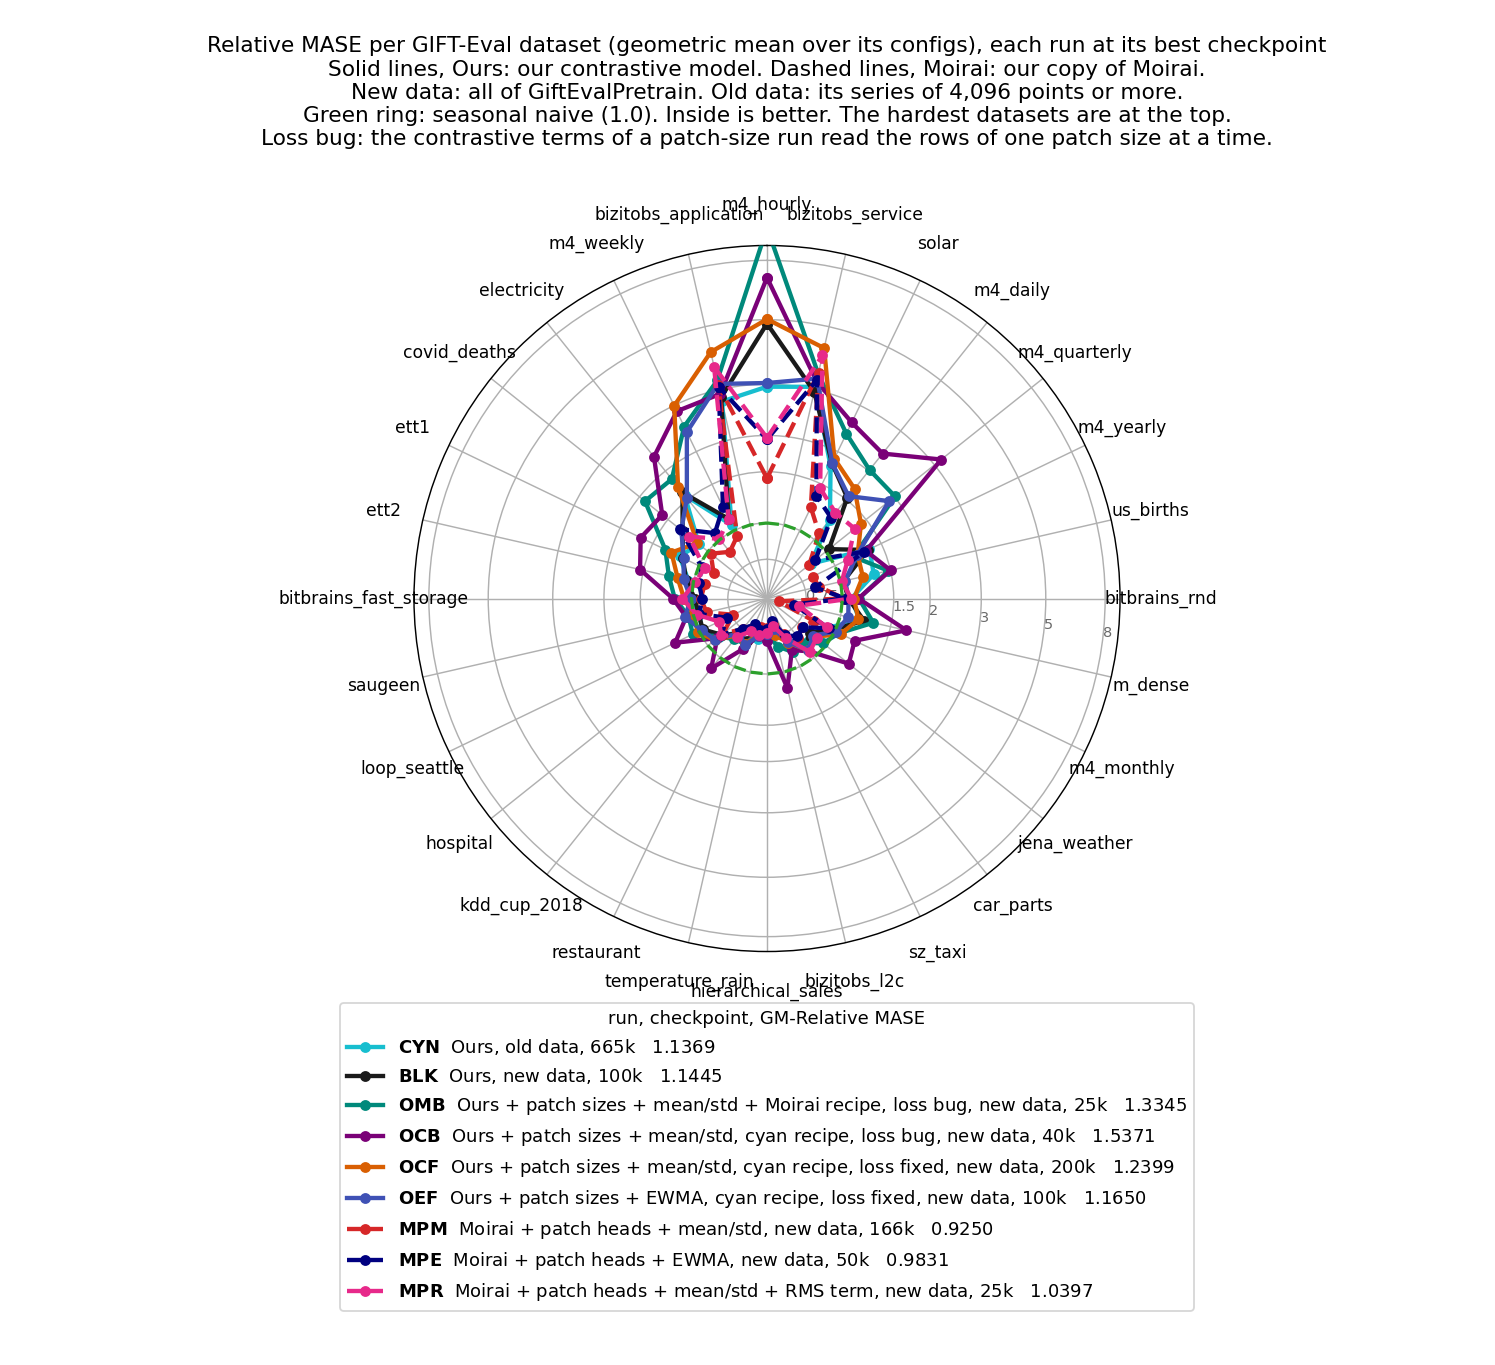
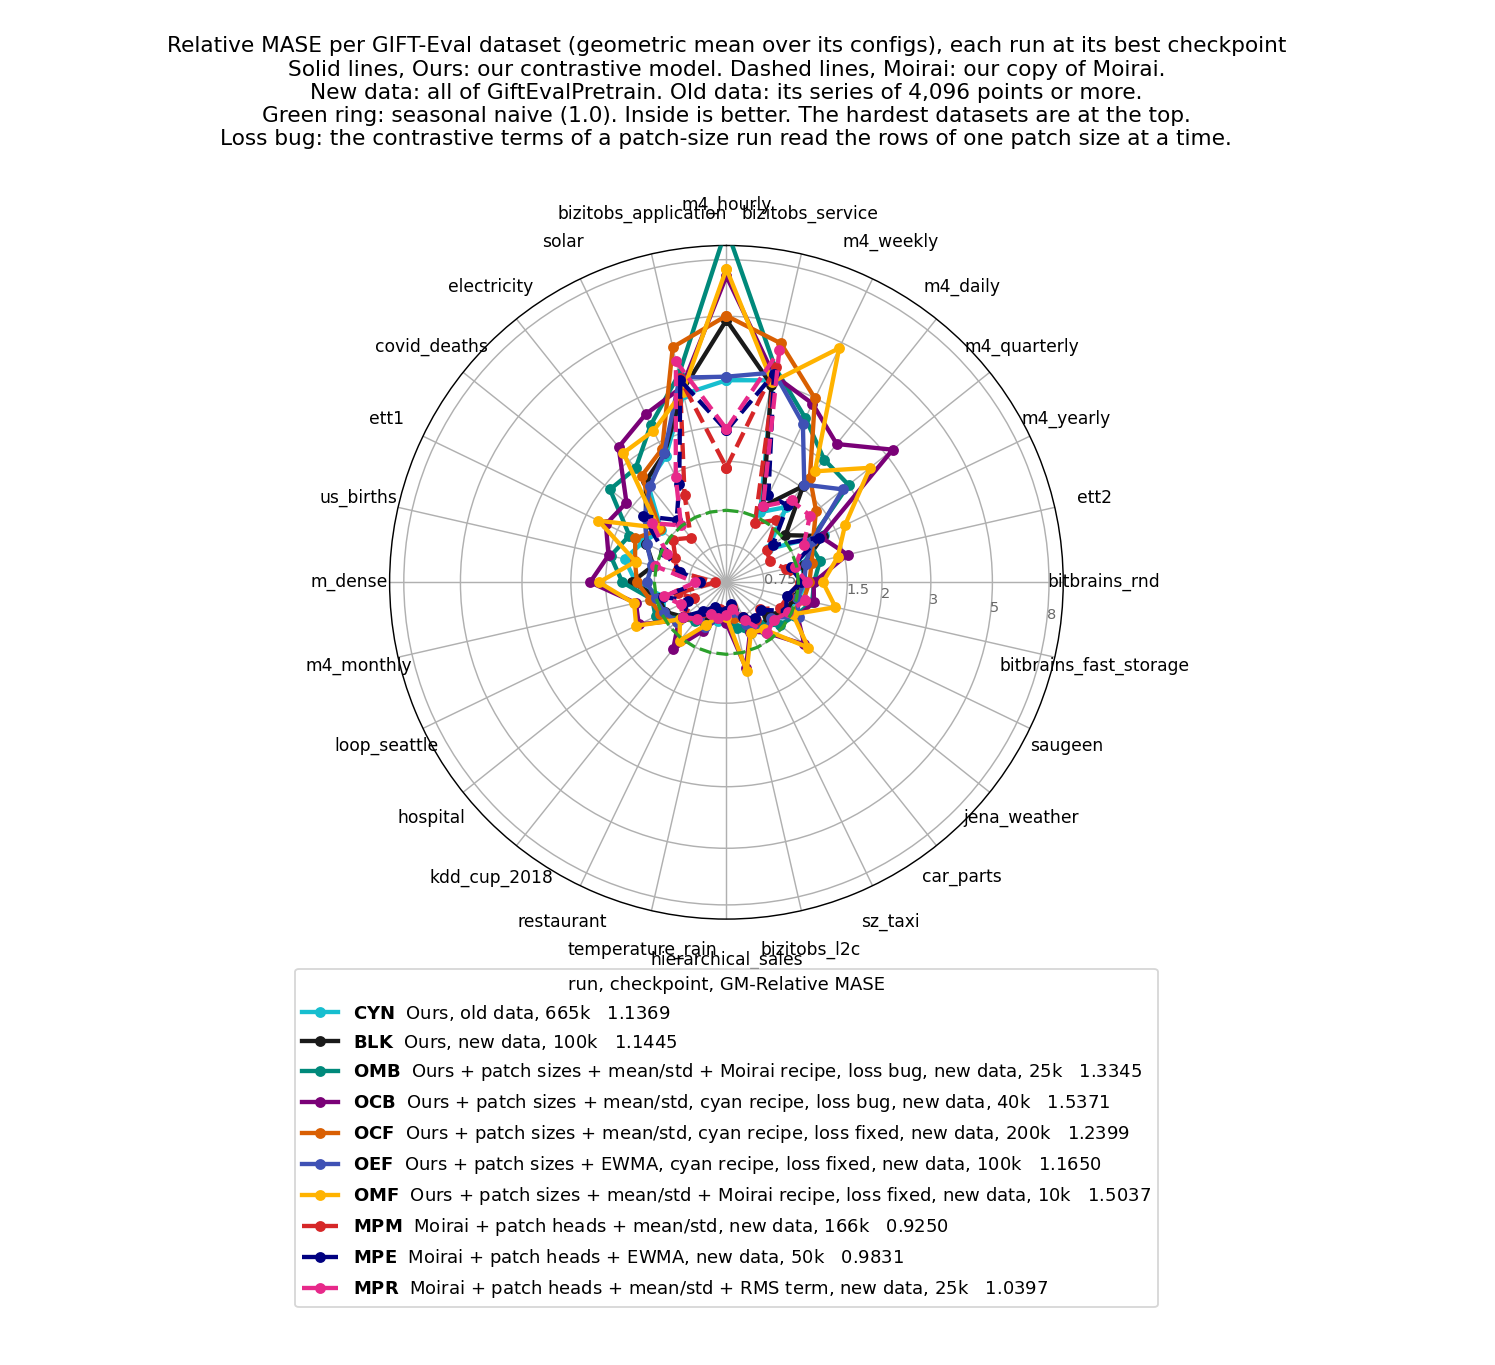
exp(#412): OMF (#412om2) scores 1.5037 at 10k
OMF enters every figure as an amber line.

Changed region(s): [[0.1231, 0.0308, 0.8615, 0.9538], [0.6769, 0.5231, 0.7692, 0.5846], [0.5846, 0.5538, 0.6154, 0.5846]]

diff --git a/reports/2026-09-06_moirai_small_size/scripts/plot_loss_terms_412.py b/reports/2026-09-06_moirai_small_size/scripts/plot_loss_terms_412.py
@@ -43,6 +43,8 @@ SOURCES = {
     "cf412oc": ([f"cf-412oc/leg_{k}k" for k in (40, 100, 200)], "cf412oc_k3_losses.csv", 1),
     "cf412oc2": ([f"cf-412oc2/leg_{k}k" for k in (40, 100, 200)], "cf412oc2_k3_losses.csv", 1),
     "cf412oe2": ([f"cf-412oe2/leg_{k}k" for k in (40, 100, 200)], "cf412oe2_k3_losses.csv", 1),
+    "cf412om2": ([f"cf-412om2/leg_{k}k" for k in (10, 25, 50, 75, 100, 125, 150, 166)],
+                 "cf412om2_k3_losses.csv", 4),
     CYAN: ([f"{CYAN}/arm6_v2_combab_alignT/leg_665k"],
            "cf393_arm6_v2_combab_alignT_cf373k3_cf412_" + CYAN + "_losses.csv", 1),
 }
@@ -51,6 +53,7 @@ LABEL = {"cf412om": "Ours + patch sizes + mean/std + Moirai recipe, loss bug (ba
          "cf412oc": "Ours + patch sizes + mean/std, cyan recipe, loss bug (batch 64)",
          "cf412oc2": "Ours + patch sizes + mean/std, cyan recipe, loss fixed (batch 64)",
          "cf412oe2": "Ours + patch sizes + EWMA, cyan recipe, loss fixed (batch 64)",
+         "cf412om2": "Ours + patch sizes + mean/std + Moirai recipe, loss fixed (batch 256)",
          CYAN: "cyan: ours, one patch size, EWMA (batch 64)"}
 LABEL = {run: tagged(run, text) for run, text in LABEL.items()}
 PANEL = {"gm": "GM-Relative MASE (lower is better)",
@@ -114,7 +117,7 @@ def load():
             xs, ys = curves[(r["run"], r["term"])]
             xs.append(float(r["data_seen"]))
             ys.append(float(r["median"]))
-    scale = {"cf412om": 4}
+    scale = {"cf412om": 4, "cf412om2": 4}
     if MEASURED.exists():
         with open(MEASURED) as f:
             for r in csv.DictReader(f, delimiter="\t"):

diff --git a/reports/2026-09-06_moirai_small_size/scripts/plot_gm_rates.py b/reports/2026-09-06_moirai_small_size/scripts/plot_gm_rates.py
@@ -34,6 +34,7 @@ RUNS = [
     ("cf412oc", "Ours + patch sizes + mean/std, cyan recipe, new data, loss bug", 4.4, "p"),
     ("cf412oc2", "Ours + patch sizes + mean/std, cyan recipe, new data, loss fixed", 4.4, ">"),
     ("cf412oe2", "Ours + patch sizes + EWMA, cyan recipe, new data, loss fixed", 4.4, "8"),
+    ("cf412om2", "Ours + patch sizes + mean/std + Moirai recipe, new data, loss fixed", 4.4, "H"),
     # Moirai: our copy of Moirai, trained on the values with its schedule.
     ("cf419_moirai_native", "Moirai, own head, new data",                2.4, "<"),
     ("cf415_moirai_native", "Moirai, own head, old data",                   2.4, "o"),
@@ -47,7 +48,8 @@ SERIES = [(arm, tagged(arm, label), colour(arm), width, marker, line(arm))
 # of four batch-64 steps.
 XSCALE = {"cf415_moirai": 4, "cf415_moirai_native": 4, "cf419_moirai_native": 4,
           "cf421z_moirai_native": 4, "cf421f_moirai_native": 4, "cf421fb_moirai_native": 4,
-          "cf421n_moirai_native": 4, "cf421ew_moirai_native": 4, "cf412om": 4}
+          "cf421n_moirai_native": 4, "cf421ew_moirai_native": 4, "cf412om": 4,
+          "cf412om2": 4}
 # Where the last score of a line prints, so two lines that end together part.
 END_LABEL_OFFSET = {P + "_lr100x": (9, 4), P + "_cos200k": (9, -12), "cf412om": (-62, 6),
                     "cf412oc2": (-58, -16), "cf412oe2": (9, 5)}

diff --git a/reports/2026-09-06_moirai_small_size/scripts/plot_radar_419.py b/reports/2026-09-06_moirai_small_size/scripts/plot_radar_419.py
@@ -18,6 +18,7 @@ NEW_DATA = [
     ("cf412oc", "ours412oc_", "Ours + patch sizes + mean/std, cyan recipe, loss bug"),
     ("cf412oc2", "ours412oc2_", "Ours + patch sizes + mean/std, cyan recipe, loss fixed"),
     ("cf412oe2", "ours412oe2_", "Ours + patch sizes + EWMA, cyan recipe, loss fixed"),
+    ("cf412om2", "ours412om2_", "Ours + patch sizes + mean/std + Moirai recipe, loss fixed"),
     ("cf421f_moirai_native", "moirai421f_native", "Moirai + patch heads + mean/std"),
     ("cf421ew_moirai_native", "moirai421ew_native", "Moirai + patch heads + EWMA"),
     ("cf421n_moirai_native", "moirai421n_native", "Moirai + patch heads + mean/std + RMS term"),

diff --git a/reports/2026-09-06_moirai_small_size/scripts/run_style.py b/reports/2026-09-06_moirai_small_size/scripts/run_style.py
@@ -20,6 +20,7 @@ STYLE = {
     "cf412oc": ("#7a0177", OURS),
     "cf412oc2": ("#d95f02", OURS),
     "cf412oe2": ("#3f51b5", OURS),
+    "cf412om2": ("#ffb300", OURS),
     "cf415_moirai": ("#8c564b", MOIRAI),
     "cf415_moirai_native": ("#8c564b", ":"),
     "cf419_moirai_native": ("#9a9a00", MOIRAI),
